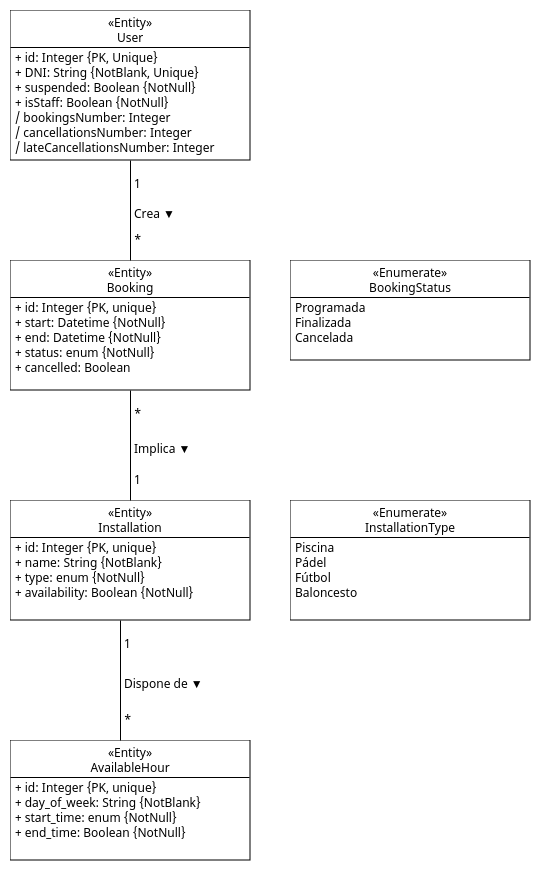
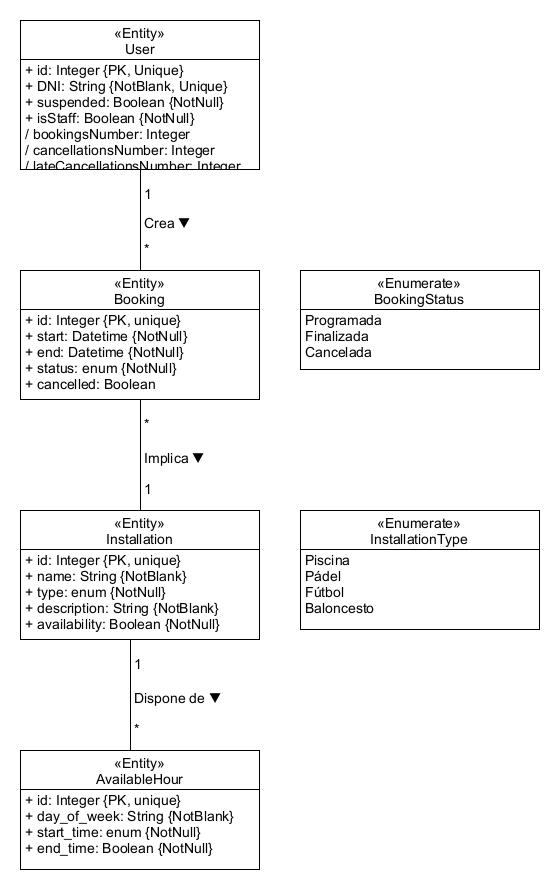
fix: Add description attribute to installation

diff --git a/backend/installation/models.py b/backend/installation/models.py
@@ -14,6 +14,7 @@ class Installation(models.Model):
     id = models.AutoField(primary_key=True, unique=True)
     name = models.CharField(max_length=255, blank=False)
     type = models.CharField(max_length=50, choices=InstallationType.choices, blank=False)
+    description = models.TextField(max_length=500, blank=True)
     availability = models.BooleanField(null=False)
     
     # Returns a list of hourly slots available for a specific date
